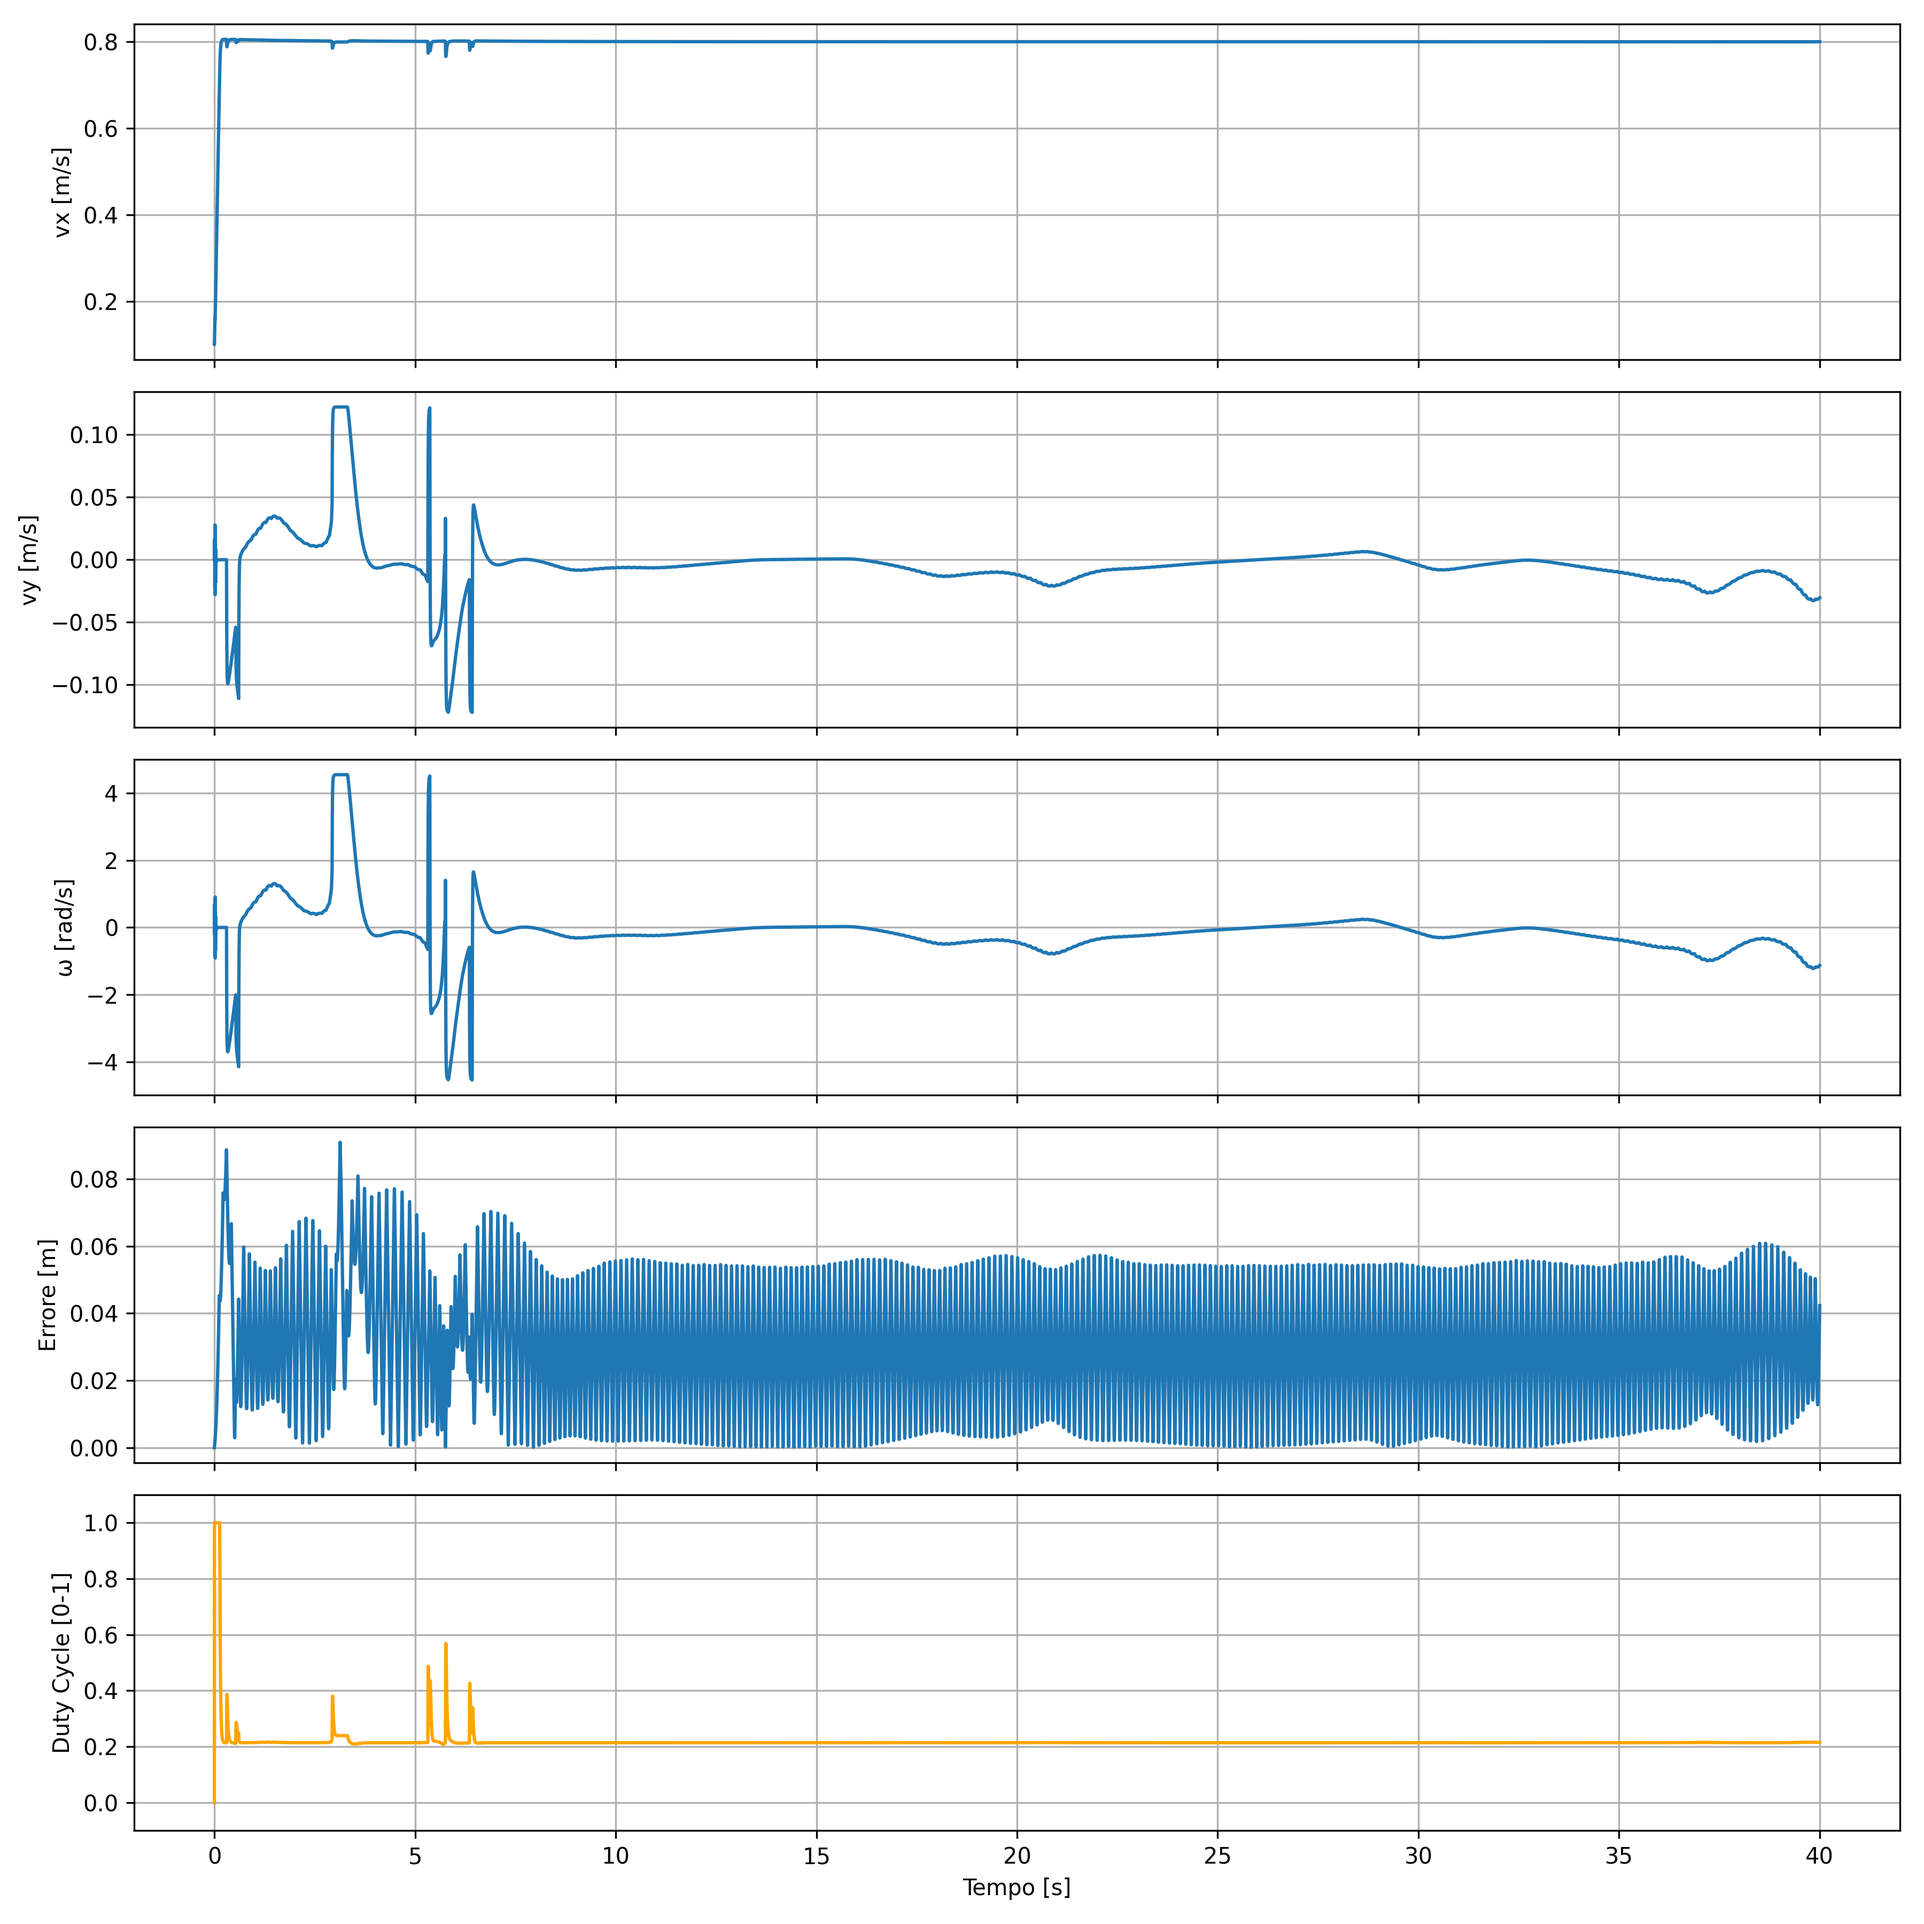
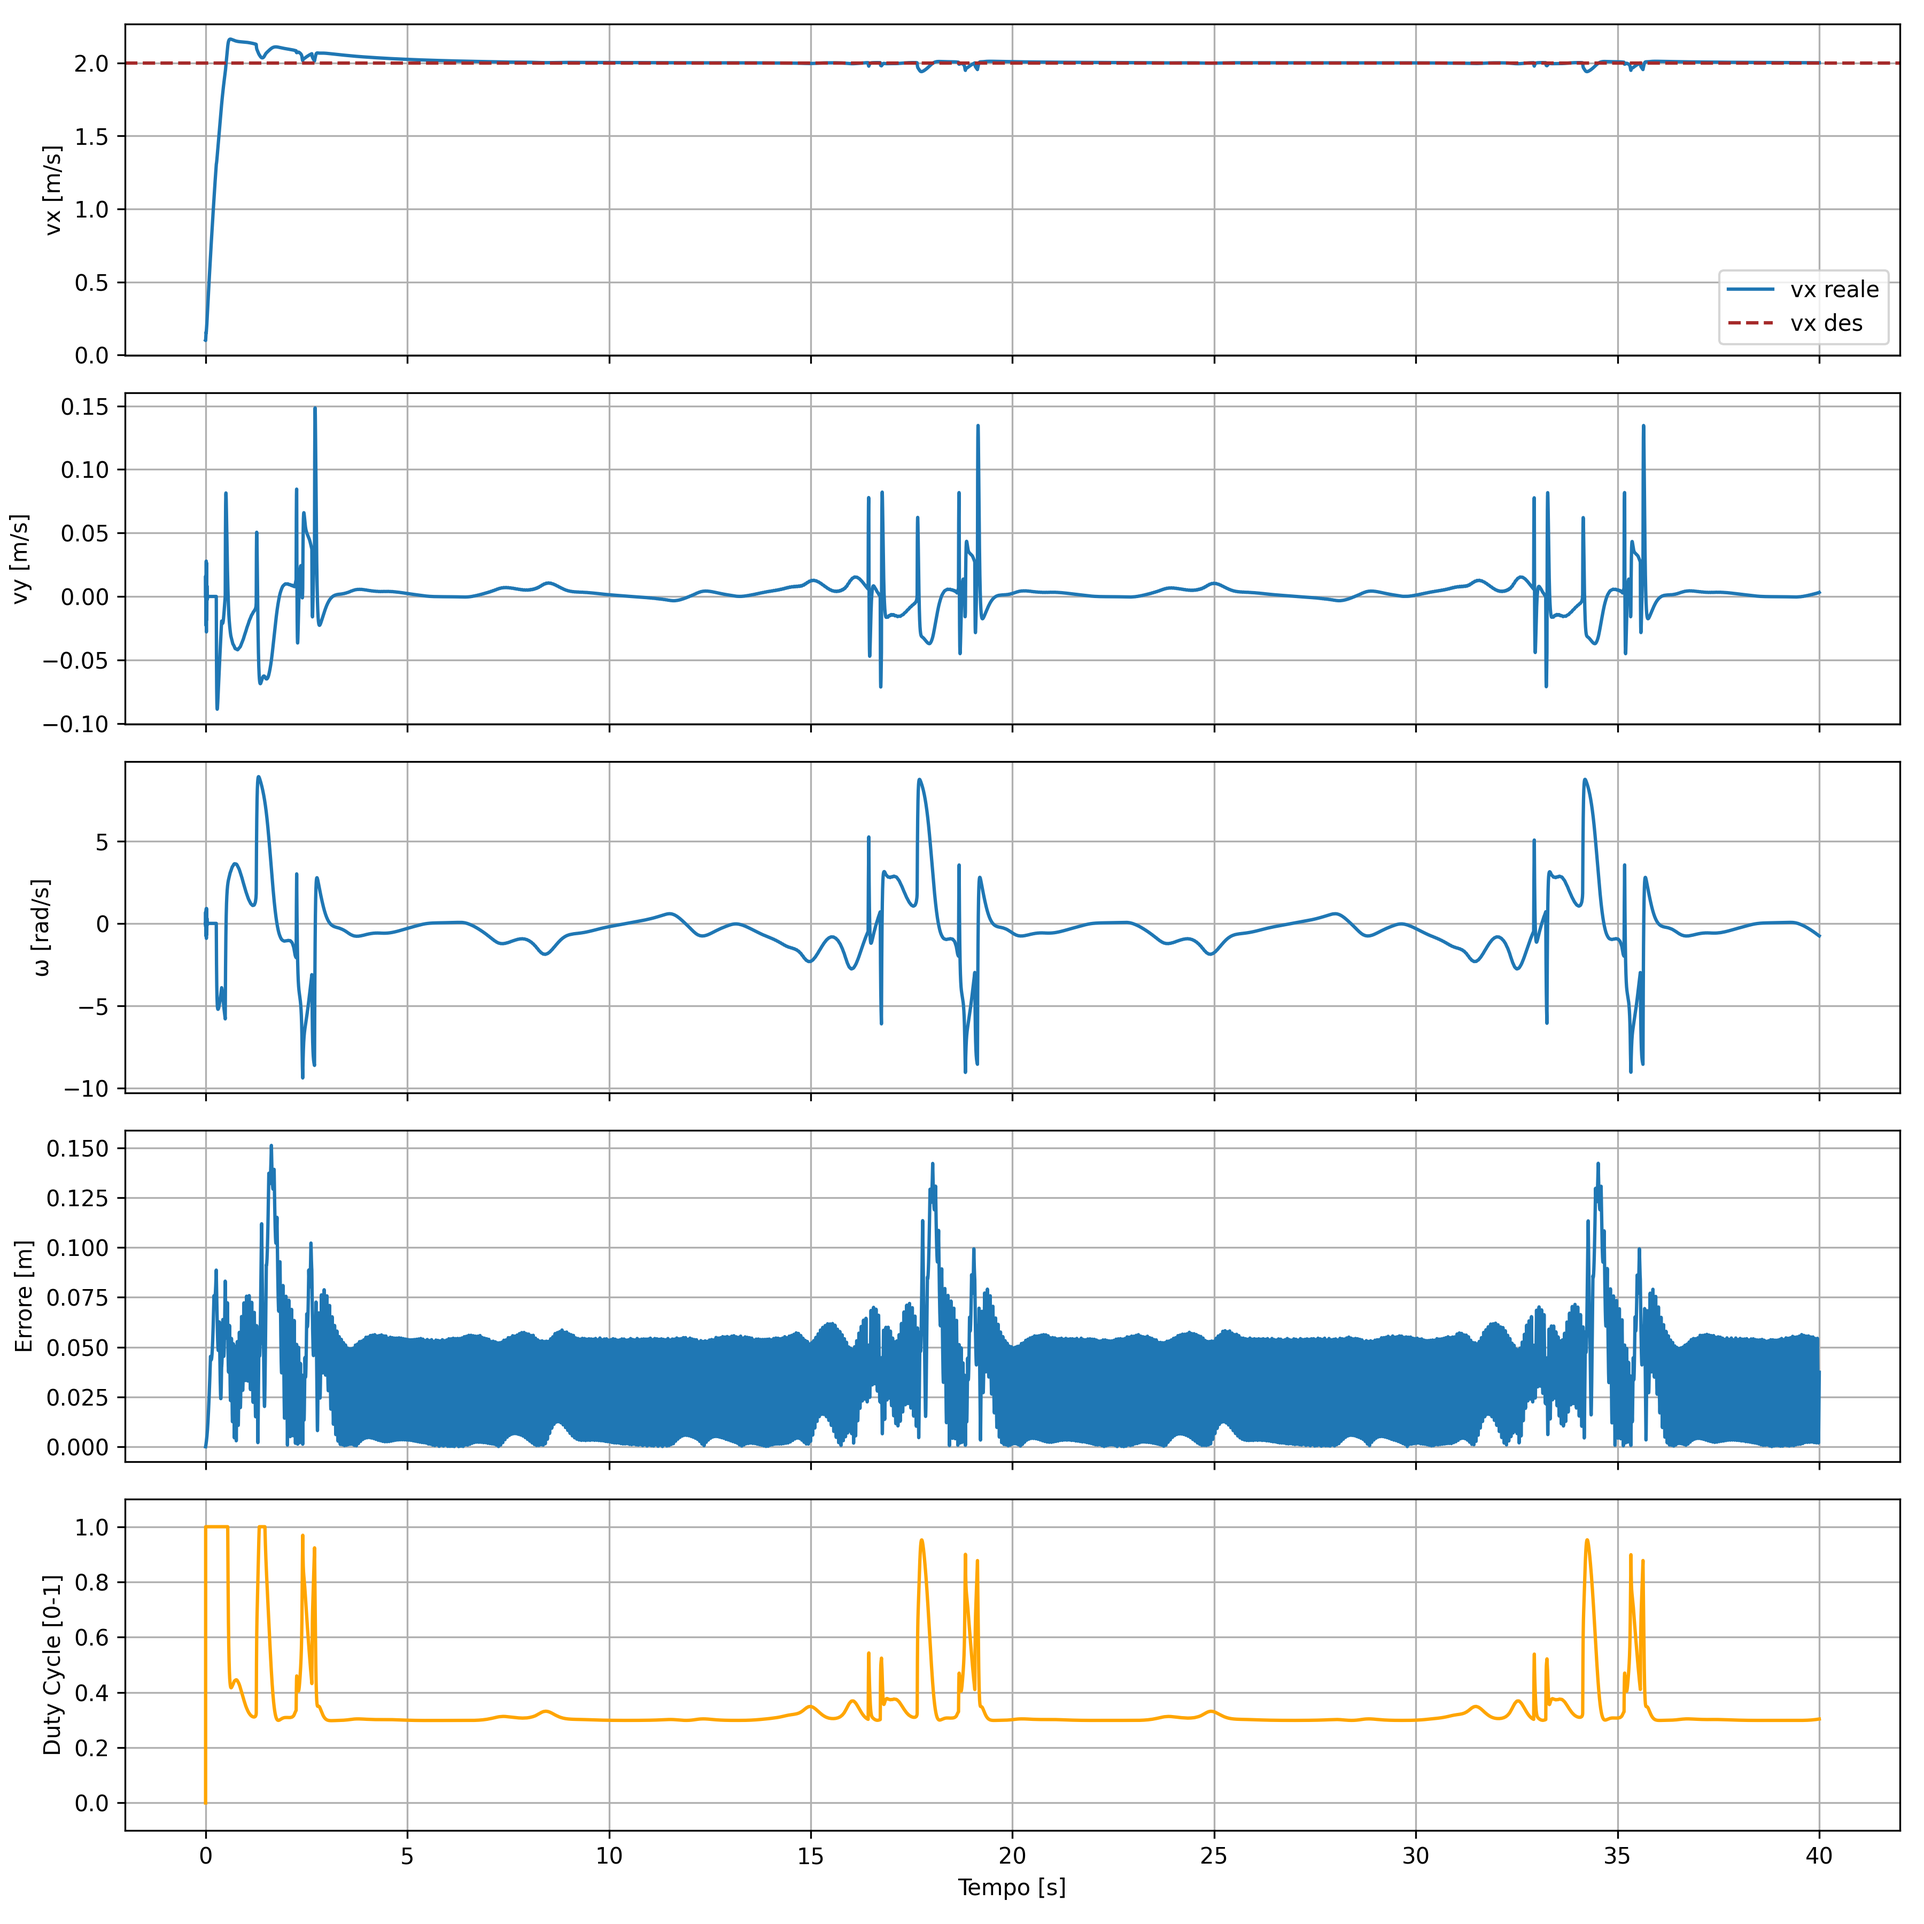
Aggiunta azione P,PI, TEST VARI

diff --git a/main.py b/main.py
@@ -9,6 +9,7 @@ from scipy.interpolate import splev, splprep
 from Veicolo.Vehicle_model import VehicleIntegrator, VehicleInput, VehicleState, DynamicBicycleModel
 from Veicolo.Vehicle_controller import PurePursuit
 from vxTest import run_vx_test
+import datetime
 
 
 # ==============================================================
@@ -215,7 +216,7 @@ def run_simulation():
 
         (1.1, -0.6),
         (2.1, 0.0),
-        (3, 0.8)
+
 
     ]
 
@@ -253,9 +254,10 @@ def run_simulation():
 
     print(f"\nInizio simulazione: {num_steps} step, dt={dt}s \n" )
 
-    vx_des = 0.8  # velocità desiderata (valore che decido io)
+    l_val = controller.L_base
+    vx_des = 1.5 # velocità desiderata (valore che decido io)
 
-    kp = 10  # guadagno puramente proporzionale
+    kp = 10  # guadagno puramente proporzionaleora
     omega_cross = 1  # frequenza cross che mi definisce il tempo Ti ovvero, il tempo in cui voglio l'errore venga annullato
     Ti = 2 / omega_cross  # calcolo il Ti come 2 / omega_cross
     ki = kp / Ti  # calcolo il fattore di integrazione come rapporto tra il guadagno puramente proporzionale e il tempo Ti
@@ -324,8 +326,8 @@ def run_simulation():
 
     base_dir = "Grafici"
     tipo_controllo = "azione_PI"
-
-    dettagli_run = f"Kp{kp}_Ki{ki:.2f}_Ti{Ti:.2f}_T{T_sim}"
+    ora_attuale = datetime.datetime.now().strftime("%H%M%S")
+    dettagli_run = f"Vel{vx_des}_Kp{kp}_Ki{ki:.2f}_Ti{Ti:.2f}_T{T_sim}_L{l_val}{ora_attuale}"
 
 
     run_dir = os.path.join(base_dir, trajectory_name, tipo_controllo, dettagli_run)
@@ -386,9 +388,11 @@ def run_simulation():
 
     fig, axes = plt.subplots(5, 1, figsize=(12, 12), sharex = True) #5 figure all'interno del file una per vx(t), una per vy(t), una per w(t) e una per l'errore
 
-    axes[0].plot(time_history, vx_history)
+    axes[0].plot(time_history, vx_history, label = 'vx reale')
+    axes[0].axhline(y = vx_des, color = 'brown', linestyle = '--', linewidth = 1.5, label = 'vx des')
     axes[0].set_ylabel('vx [m/s]')
     axes[0].grid(True)
+    axes[0].legend()
 
     axes[1].plot(time_history, vy_history)
     axes[1].set_ylabel('vy [m/s]')

diff --git a/Veicolo/Vehicle_controller.py b/Veicolo/Vehicle_controller.py
@@ -9,8 +9,8 @@ from Veicolo.Vehicle_model import VehicleState, normalize_angle
 class PurePursuit:
     """Algoritmo Pure Pursuit per il controllo della traiettoria"""
 
-    def __init__(self, wheelbase: float = 0.062, lookahead_base: float = 0.15,
-                 lookahead_gain: float = 0.12, max_steering: float = 0.35,
+    def __init__(self, wheelbase: float = 0.062, lookahead_base: float = 0.80,
+                 lookahead_gain: float = 0.8, max_steering: float = 0.35,
                  max_speed: float = 3.5):
 
         self.wb = wheelbase
